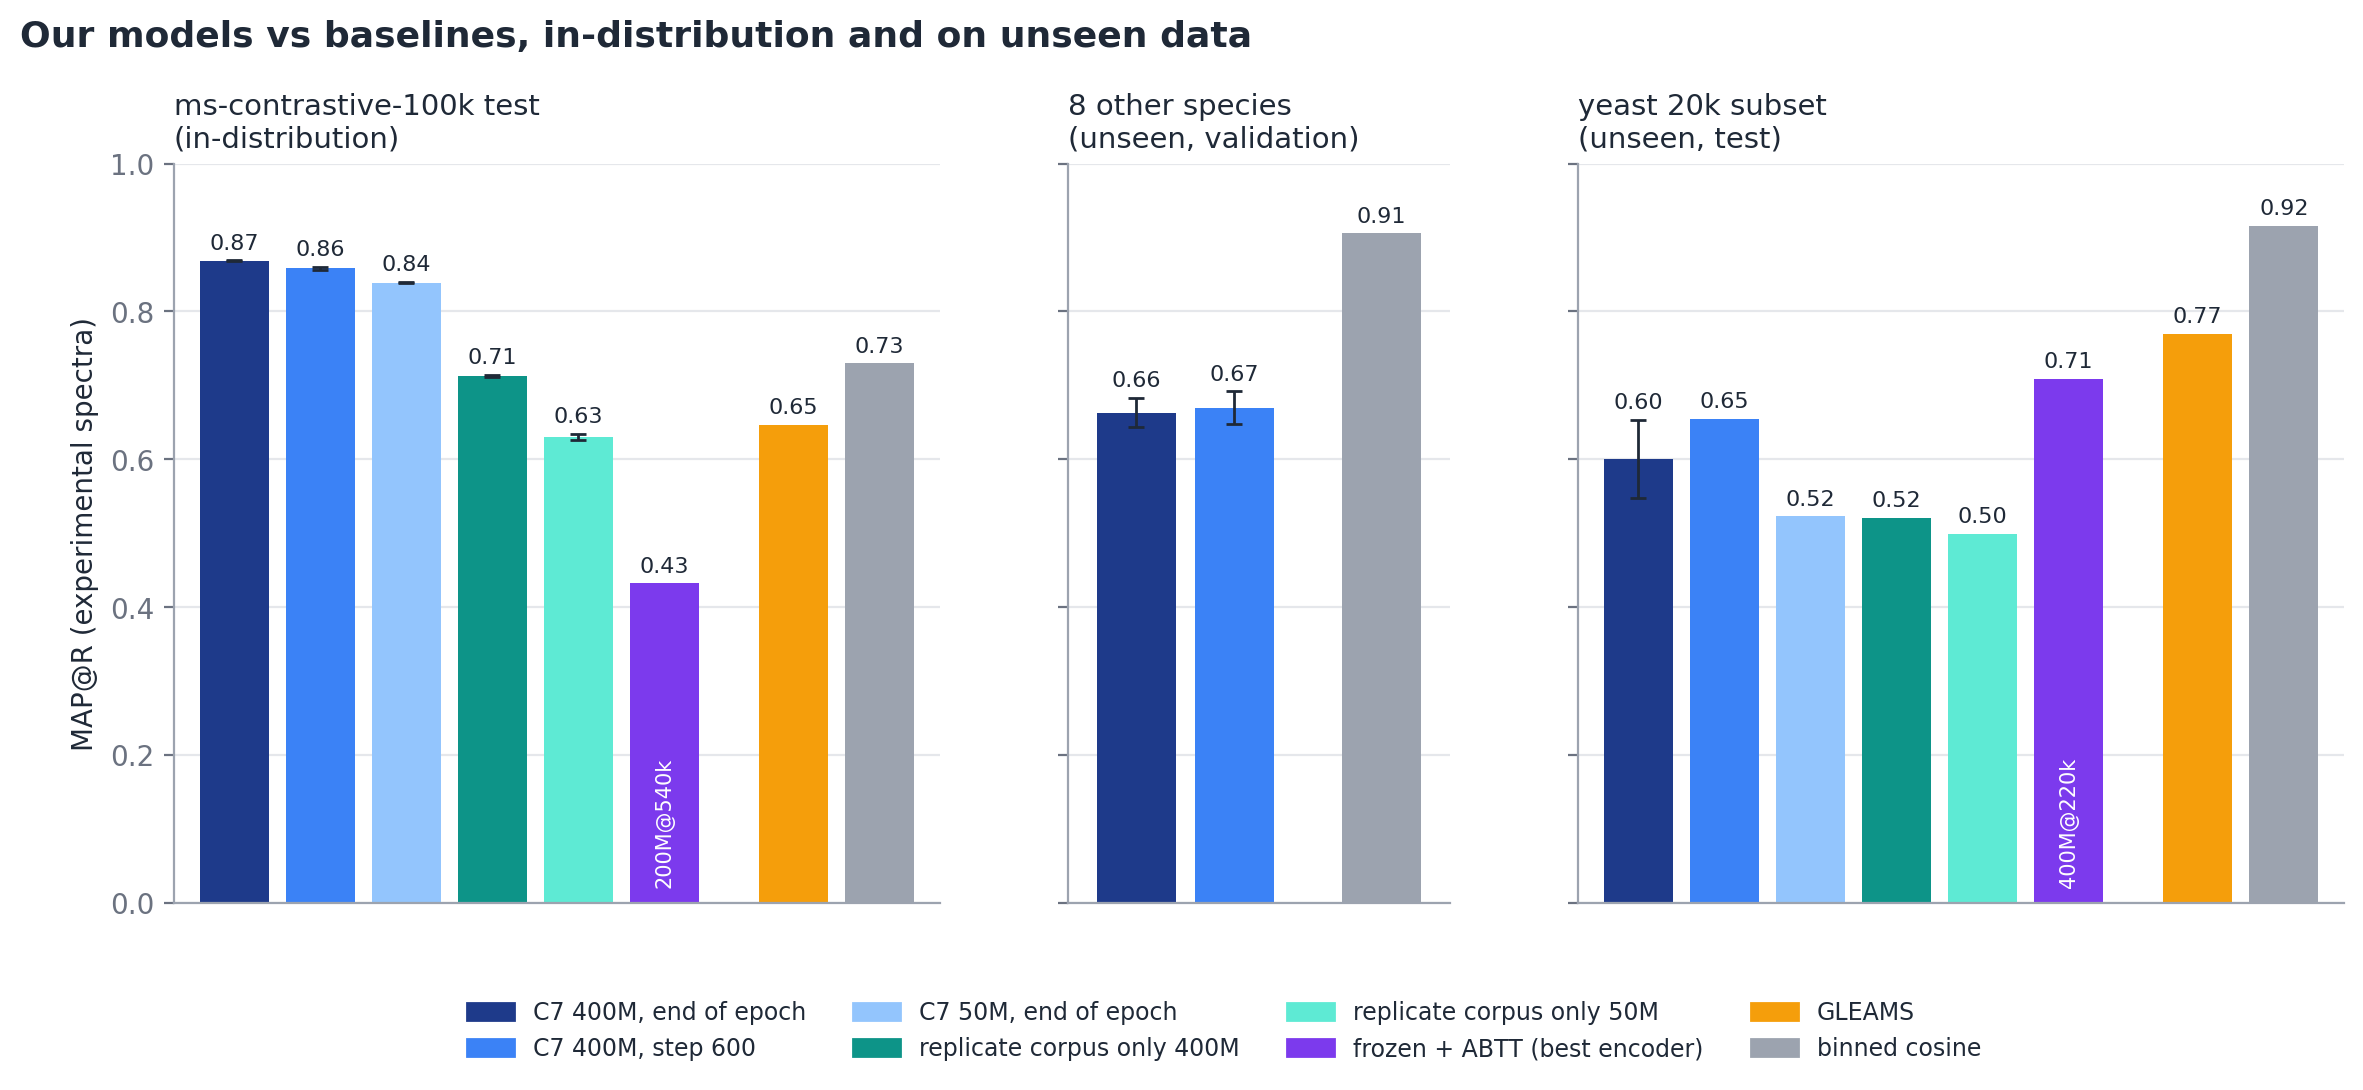
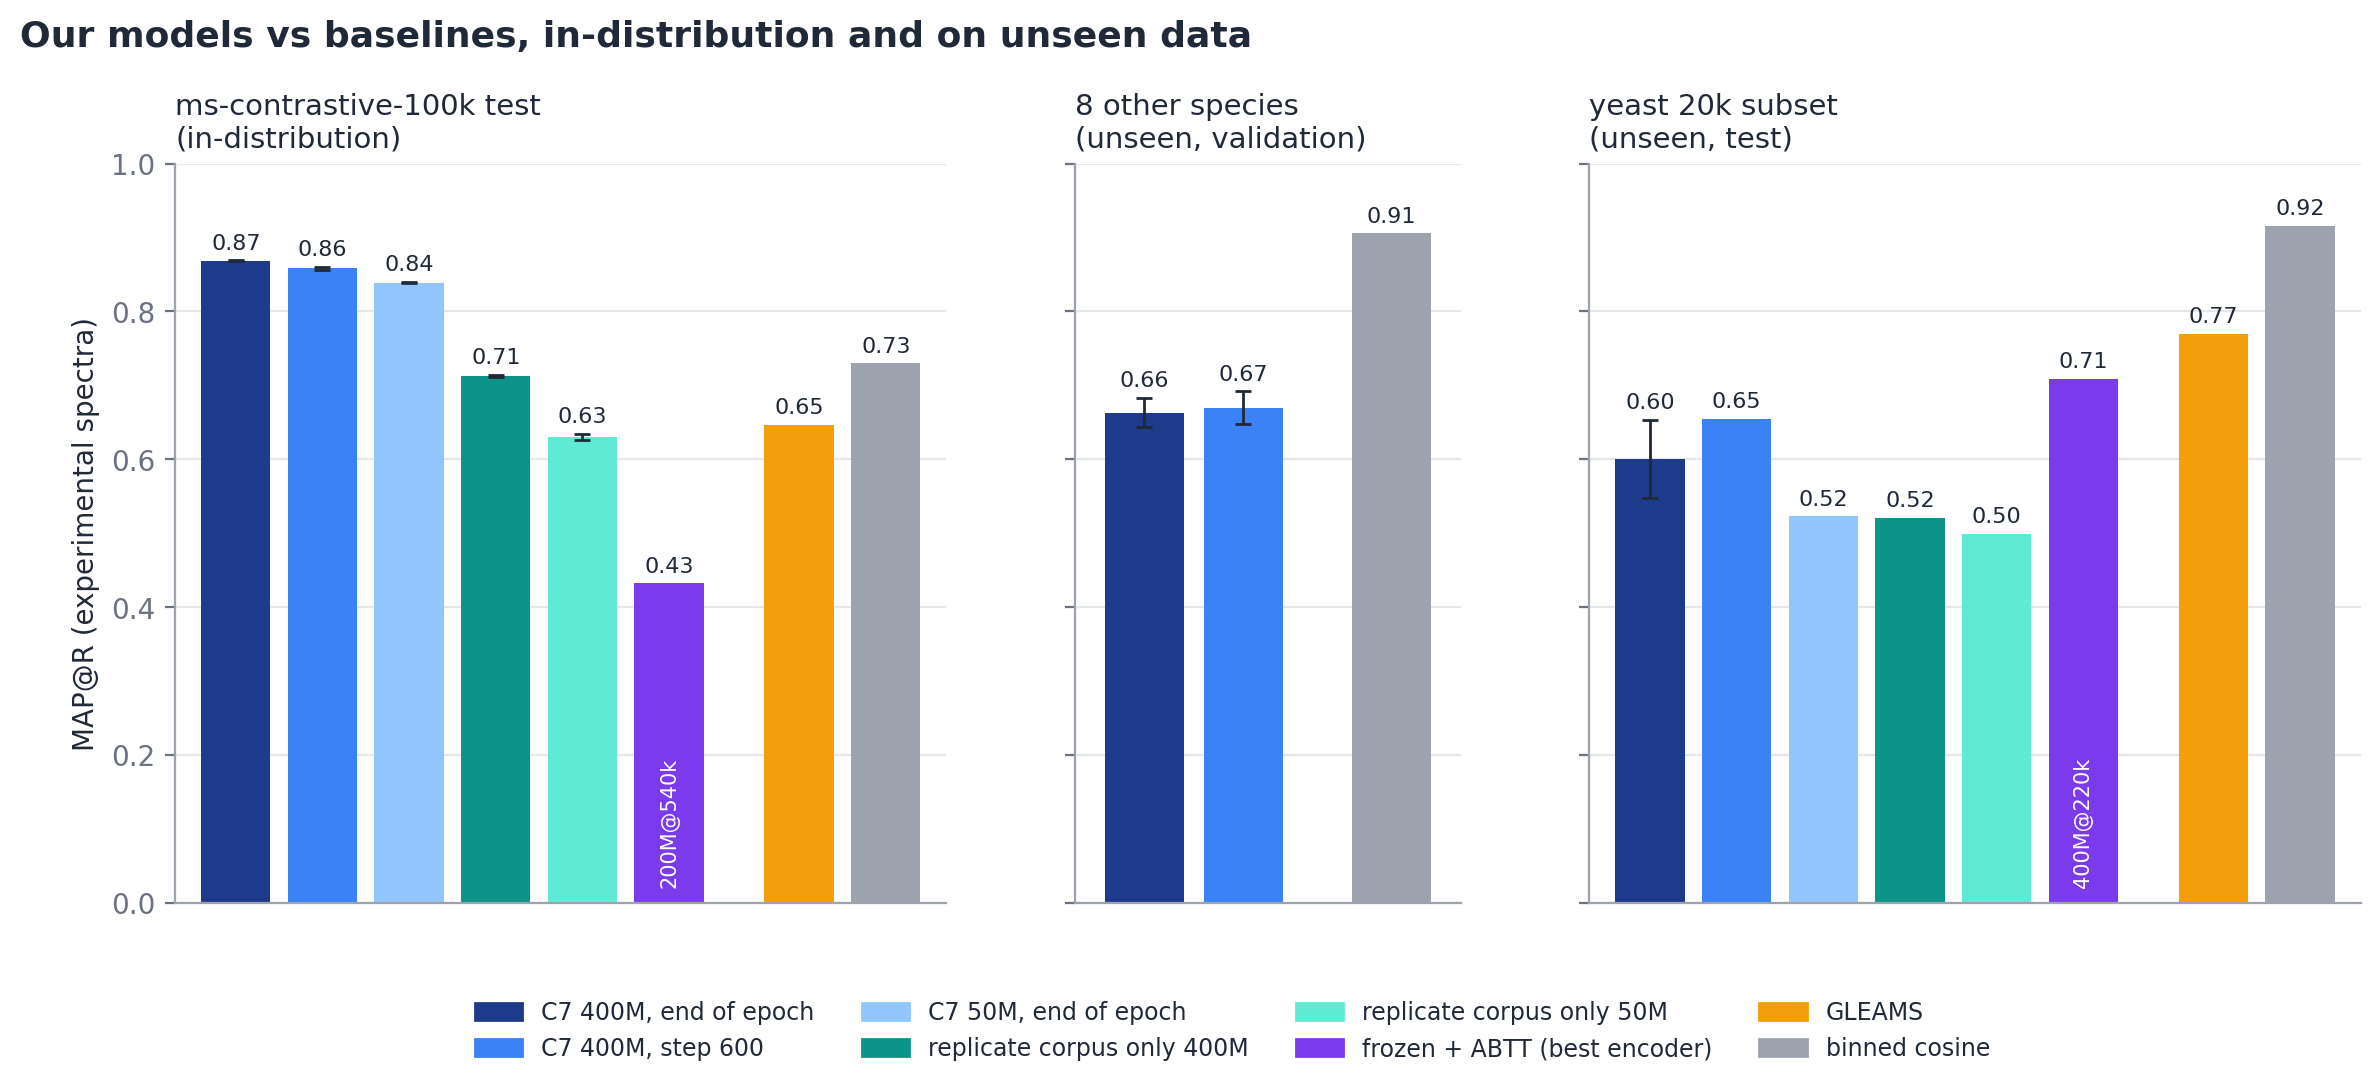
C_transfer_ours: our models only, in-distribution vs yeast
Claude-Session: https://claude.ai/code/session_01ATgkXx1oRRqvzB3G8wYeta

diff --git a/sweeps/package_contrastive.py b/sweeps/package_contrastive.py
@@ -213,8 +213,9 @@ def fig_zeroshot(zs):
         fig.savefig(FIG / "C_zeroshot.png"); plt.close(fig)
 
 
-def fig_transfer(rows, zs):
-    """Per benchmark: every model of ours scored there vs GLEAMS vs binned cosine."""
+def fig_transfer(rows, zs, panels=None, baselines=True, out="C_transfer.png",
+                 title="Our models vs baselines, in-distribution and on unseen data"):
+    """Per benchmark: every model of ours scored there (optionally vs GLEAMS and binned cosine)."""
     c7 = "C7 (replicate corpus -> ms-contrastive-100k)"
     def rep(b, sc):
         return pick(rows, b, "replicate corpus only (12 ep)", sc) or pick(rows, b, "replicate corpus only (24 ep)", sc)
@@ -234,13 +235,15 @@ def fig_transfer(rows, zs):
               ("binned cosine", BINNED, lambda b: ([max(pick(rows, b, "binned cosine (1 Da bins)")
                                                        + pick(rows, b, "binned cosine (0.1 Da bins)"))]
                                                   if pick(rows, b, "binned cosine (1 Da bins)") + pick(rows, b, "binned cosine (0.1 Da bins)") else [], ""))]
-    panels = [("ms-contrastive-100k", "ms-contrastive-100k test\n(in-distribution)"),
-              ("oodval-8species", "8 other species\n(unseen, validation)"),
-              ("yeast-20k", "yeast 20k subset\n(unseen, test)")]
+    panels = panels or [("ms-contrastive-100k", "ms-contrastive-100k test\n(in-distribution)", 8),
+                        ("oodval-8species", "8 other species\n(unseen, validation)", 4),
+                        ("yeast-20k", "yeast 20k subset\n(unseen, test)", 8)]
+    if not baselines:
+        series = [t for t in series if t[0] not in ("GLEAMS", "binned cosine")]
     with plt.rc_context(STYLE):
-        fig, axes = plt.subplots(1, 3, figsize=(14, 4.8), sharey=True,
-                                 gridspec_kw={"width_ratios": [8, 4, 8]})
-        for ax, (b, title) in zip(axes, panels):
+        fig, axes = plt.subplots(1, len(panels), figsize=(4.7 * len(panels) + (0 if baselines else -1), 4.8),
+                                 sharey=True, gridspec_kw={"width_ratios": [w for *_, w in panels]})
+        for ax, (b, ptitle, _) in zip(axes, panels):
             ax.yaxis.grid(True, color=GRIDC, lw=0.8); ax.set_axisbelow(True)
             x = 0
             for name, col, get in series:
@@ -256,14 +259,14 @@ def fig_transfer(rows, zs):
                 if sub:
                     ax.text(x, 0.02, sub, rotation=90, ha="center", va="bottom", fontsize=7.5, color="white")
                 x += 1
-            ax.set_xticks([]); ax.set_xlim(-0.7, x - 0.3); ax.set_title(title, loc="left", fontsize=10.5)
+            ax.set_xticks([]); ax.set_xlim(-0.7, x - 0.3); ax.set_title(ptitle, loc="left", fontsize=10.5)
         axes[0].set_ylim(0, 1.0); axes[0].set_ylabel("MAP@R (experimental spectra)")
-        fig.suptitle("Our models vs baselines, in-distribution and on unseen data", x=0.07, ha="left",
+        fig.suptitle(title, x=0.07, ha="left",
                      fontsize=13, fontweight="bold", y=1.03)
         fig.legend(handles=[plt.Rectangle((0, 0), 1, 1, color=c) for _, c, _ in series],
-                   labels=[n for n, _, _ in series], frameon=False, fontsize=8.5, ncol=4,
+                   labels=[n for n, _, _ in series], frameon=False, fontsize=8.5, ncol=4 if baselines else 3,
                    loc="upper center", bbox_to_anchor=(0.5, 0.03))
-        fig.savefig(FIG / "C_transfer.png"); plt.close(fig)
+        fig.savefig(FIG / out); plt.close(fig)
 
 
 RUNS = Path("/lus/flare/projects/UIC-HPC/khuss/msdelta/runs")
@@ -335,6 +338,9 @@ def main():
             w.writerow({k: (f"{v:.5f}" if isinstance(v, float) else v) for k, v in r.items()})
     print("ablation rows", len(ab))
     fig_benchmarks(rows); fig_pretraining(rows); fig_zeroshot(zs); fig_transfer(rows, zs); fig_ablation(ab)
+    fig_transfer(rows, zs, panels=[("ms-contrastive-100k", "ms-contrastive-100k test\n(in-distribution)", 1),
+                                   ("yeast-20k", "yeast 20k subset\n(unseen)", 1)],
+                 baselines=False, out="C_transfer_ours.png", title="Our models in-distribution vs unseen")
     print(f"rows {len(rows)}, zero-shot rows {len(zs)}")
     agg = defaultdict(list)
     for r in rows:
